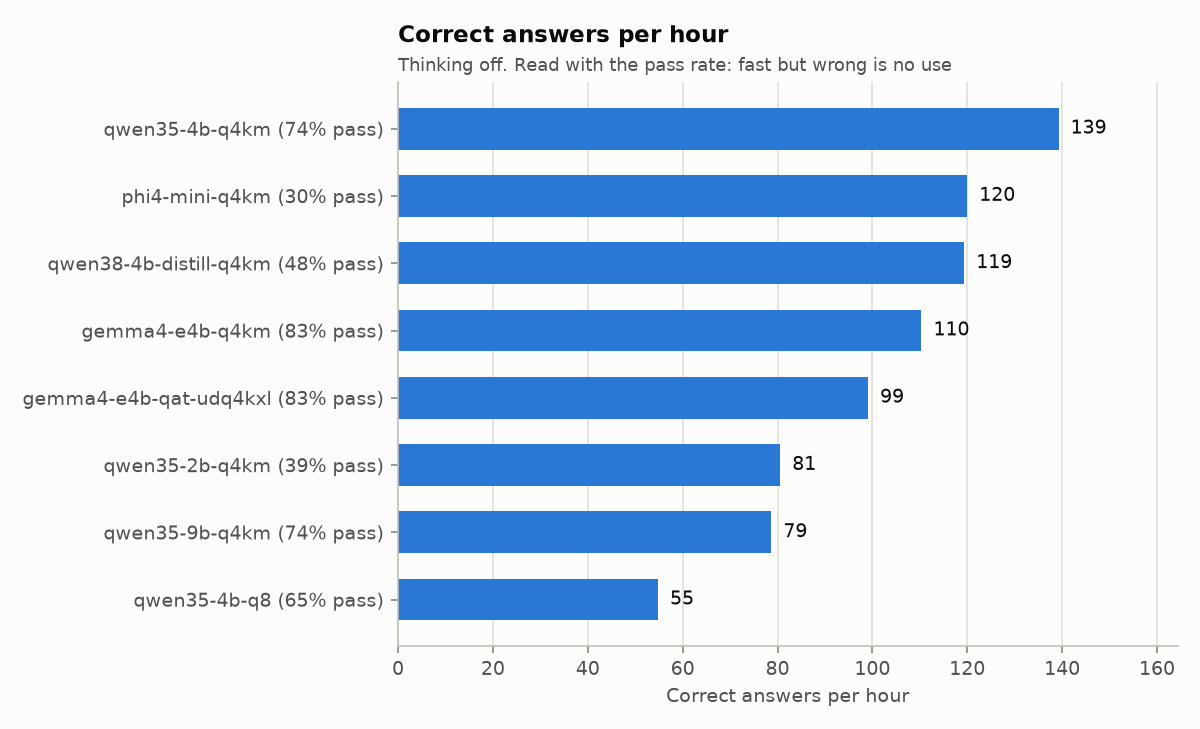
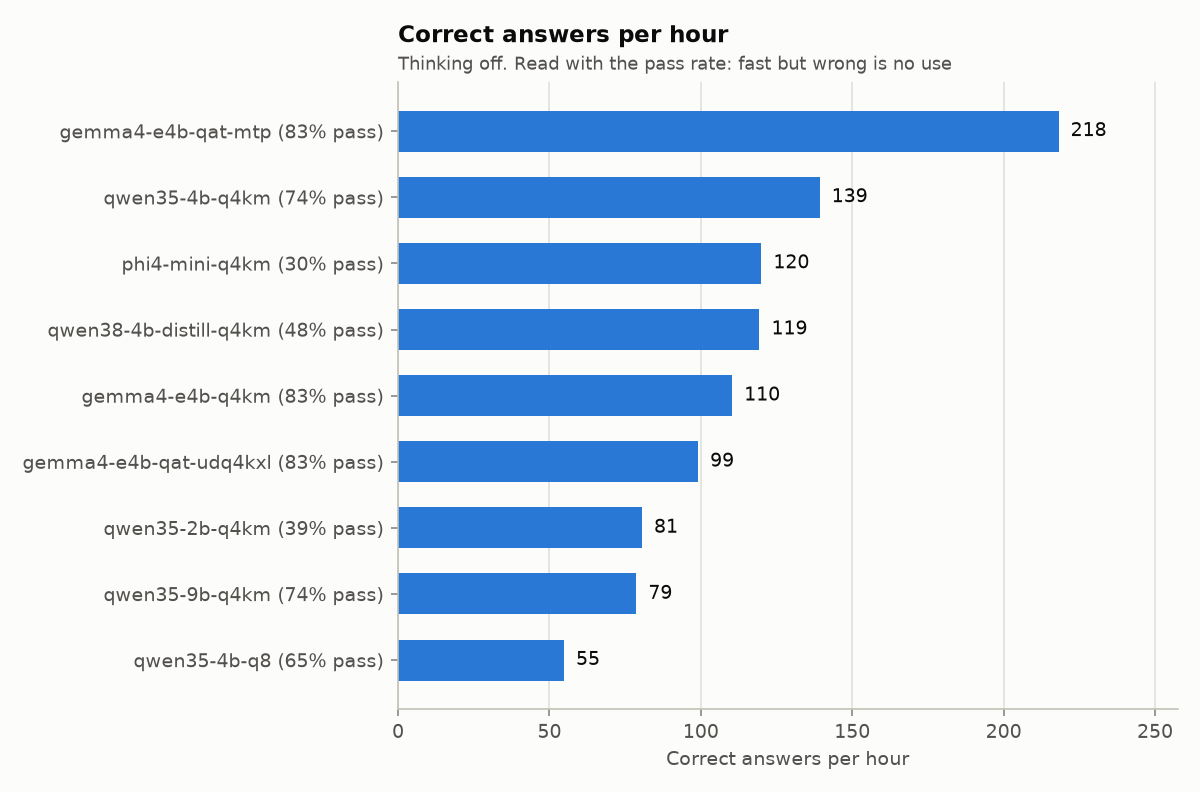
Gemma QAT + MTP (19/23, 218 correct/h); fix log parser for multi-KV and draft models
- configs: optional draft_model / spec_type (resolved like model; hash unchanged when unused)
- server.parse_log: sum KV/weights per model load, compute re-reserves replace; sum loads
  (Gemma 4 has two KV caches: 296 MiB at 16K, not 40 MiB)
- lab file v31: MTP results, corrected Gemma memory, tested daily-use commands (9.4c)

diff --git a/src/lab/config.py b/src/lab/config.py
@@ -123,6 +123,8 @@ class RunConfig:
     max_tokens: int
     request_timeout_s: float
     server_args: tuple[str, ...]
+    draft_model: Path | None = None  # e.g. an MTP helper; resolved like `model`
+    spec_type: str | None = None     # llama-server --spec-type, e.g. draft-mtp
 
     def server_command(self, machine: Machine) -> list[str]:
         cmd = [
@@ -134,6 +136,8 @@ class RunConfig:
         ]
         if self.kv_cache != "f16":
             cmd += ["-ctk", self.kv_cache, "-ctv", self.kv_cache]
+        if self.draft_model:
+            cmd += ["--spec-type", self.spec_type or "draft-mtp", "-md", str(self.draft_model)]
         return cmd + list(self.server_args)
 
     @property
@@ -147,6 +151,8 @@ class RunConfig:
             "thinking": self.thinking, "sampling": self.sampling, "max_tokens": self.max_tokens,
             "server_args": list(self.server_args),
         }
+        if self.draft_model:  # only added when used, so existing hashes stay the same
+            key["draft_model"] = [self.draft_model.name, self.draft_model.stat().st_size, self.spec_type or "draft-mtp"]
         return hashlib.sha256(json.dumps(key, sort_keys=True).encode()).hexdigest()[:12]
 
 
@@ -186,7 +192,8 @@ def resolve_sampling(spec: object, where: str) -> tuple[dict, str | None]:
 def load_run_config(path: Path, machine: Machine) -> RunConfig:
     data = read_yaml(path)
     check_keys(str(path), data, {"name", "model", "backend", "ctx", "thinking", "sampling"},
-               {"kv_cache", "repeats", "max_tokens", "request_timeout_s", "server_args", "notes"})
+               {"kv_cache", "repeats", "max_tokens", "request_timeout_s", "server_args", "notes",
+                "draft_model", "spec_type"})
     if data["backend"] not in machine.backends:
         raise ConfigError(f"{path}: backend {data['backend']!r} is not in machine "
                           f"{machine.name!r} (has {sorted(machine.backends)})")
@@ -209,4 +216,6 @@ def load_run_config(path: Path, machine: Machine) -> RunConfig:
         max_tokens=int(data.get("max_tokens", 4096)),
         request_timeout_s=float(data.get("request_timeout_s", 1800)),
         server_args=tuple(str(a) for a in data.get("server_args") or []),
+        draft_model=resolve_model(str(data["draft_model"]), machine) if data.get("draft_model") else None,
+        spec_type=data.get("spec_type"),
     )

diff --git a/src/lab/server.py b/src/lab/server.py
@@ -27,10 +27,24 @@ def port_in_use(host: str, port: int) -> bool:
 
 
 def parse_log(text: str) -> dict:
-    """Pull build number, bits per weight and buffer sizes (MiB per device) from the log."""
+    """Pull build number, bits per weight and buffer sizes (MiB per device) from the log.
+
+    The log can hold several model loads (e.g. main model + MTP draft model), and one model
+    can have several KV caches (Gemma 4: full-attention + sliding-window). So, per model load:
+    model/KV/RS lines add up, while a repeated compute/output line (a re-reserve) replaces the
+    earlier one. The loads are then added together.
+    """
     buffers: dict[str, dict[str, float]] = {}
-    for device, kind, mib in BUFFER_RE.findall(text):
-        buffers.setdefault(kind.lower(), {})[device] = float(mib)
+    for load in re.split(r"(?=llama_model_loader: loaded meta data)", text):
+        per_load: dict[str, dict[str, float]] = {}
+        for device, kind, mib in BUFFER_RE.findall(load):
+            cell = per_load.setdefault(kind.lower(), {})
+            additive = kind.lower() in ("model", "kv", "rs")
+            cell[device] = (cell.get(device, 0.0) if additive else 0.0) + float(mib)
+        for kind, devices in per_load.items():
+            for device, mib in devices.items():
+                total = buffers.setdefault(kind, {})
+                total[device] = round(total.get(device, 0.0) + mib, 2)
     info: dict = {"buffers_mib": buffers}
     if m := BUILD_RE.search(text):
         info["build"], info["commit"] = int(m[1]), m[2]

diff --git a/LOCAL_LLM_LAB.md b/LOCAL_LLM_LAB.md
@@ -1,6 +1,6 @@
 # Local LLM Lab: Master File
 
-> **Version:** 30 · **Last updated:** 2026-09-25 · **Owner:** Pratham
+> **Version:** 31 · **Last updated:** 2026-09-25 · **Owner:** Pratham
 > **Current machine:** Laptop (ASUS Zenbook 14) · **Current phase:** 4 done (harness complete); 5 next (3 repeats per task)
 
 This one file holds everything: status, plan, commands, hardware facts, model choices, research notes, and the spec for the test harness. It is written so that a human **or** Claude Code can pick it up and continue with no other context.
@@ -950,19 +950,21 @@ Observations:
 
 | Model | Passed | Correct/hour | Median s/task | Decode tok/s | Memory GiB | KV at 16K |
 |---|---|---|---|---|---|---|
-| **Gemma 4 E4B Q4_K_M** | **19/23 (83%)** | 110 | 12.1 | 13.9 | 5.69 (2.2 GB of it in CPU RAM) | **40 MiB** |
+| **Gemma 4 E4B Q4_K_M** | **19/23 (83%)** | 110 | 12.1 | 13.9 | ~~5.69~~ **5.94** (2.2 GB of it in CPU RAM) | ~~40 MiB~~ **296 MiB** |
 | Qwen3.5-4B Q4_K_M | 17/23 (74%) | **139** | 12.6 | 14.2 | 3.69 | 512 MiB |
 | Qwen3.5-9B Q4_K_M | 17/23 (74%) | 79 | 18.9 | 9.1 | 5.97 | 512 MiB |
 | Qwen3.5-2B Q4_K_M | 9/23 (39%) | 81 | 7.1 | 26.8 | 1.86 | 192 MiB |
 | Phi-4-mini Q4_K_M (greedy) | 7/23 (30%) | 120 | 8.7 | 17.6 | 4.88 | **2,048 MiB** |
 | Qwen3.5-4B Q8_0 | 15/23 (65%) | 55 | 17.0 | 11.4 | 5.45 | 512 MiB |
-| **Gemma 4 E4B QAT UD-Q4_K_XL** (2026-09-25) | **19/23 (83%)** | 99 | 16.0 | 12.3 | **4.48** | 40 MiB |
+| **Gemma 4 E4B QAT UD-Q4_K_XL** (2026-09-25) | **19/23 (83%)** | 99 | 16.0 | 12.3 | ~~4.48~~ **4.73** | ~~40 MiB~~ 296 MiB |
+| **Gemma 4 E4B QAT + MTP** (2026-09-25) | **19/23 (83%)** | **218** | **5.9** | **25.7** | 4.87 | 296 MiB |
 | "Qwen3.8-4B-Distill" Q4_K_M (empero-ai, 2026-09-25) | 11/23 (48%) | 119 | 14.0 | 15.3 | 3.66 | 512 MiB |
 
-- KV per token confirmed for three designs: Qwen3.5 hybrid 32 KB, Phi-4-mini 128 KB (as predicted in section 4), Gemma 4 E4B ~2.5 KB (likely sliding-window attention; not yet confirmed from its log).
+- KV per token confirmed for three designs: Qwen3.5 hybrid 32 KB, Phi-4-mini 128 KB (as predicted in section 4), ~~Gemma 4 E4B ~2.5 KB (likely sliding-window attention; not yet confirmed from its log).~~ **Corrected (v31): Gemma 4 E4B has two KV caches, 256 MiB (full attention) + 40 MiB (sliding window) = 296 MiB at 16K (~18.5 KB/token).** The earlier "40 MiB" was a harness bug: the log parser kept only the last KV line. Fixed in `server.parse_log` (it also mis-read logs with a second model loaded, e.g. an MTP draft). Stored rows before the fix under-report Gemma memory by 0.25 GiB; the table above shows corrected values from the server logs.
 - Phi-4-mini answers are coherent (not the Vulkan garbage bug); its failures are real logic errors. Its 120 correct/hour comes from speed, not accuracy: **judge pass rate first, then correct/hour.**
 - The 9B scored the same as the 4B at 1.5× the time: no gain on these tasks.
-- **Gemma QAT vs Gemma Q4_K_M: a tie on quality** (19/23 each; QAT passed `js-deep-merge`, failed `sql-latest-status`). Clean `lab bench` (nothing else running, 7.8 GB free): decode **12.2 vs 13.2 tok/s (−7%)**, prefill **405 vs 349 tok/s (+16%)**, memory **4.48 vs 5.69 GiB (−1.2 GB)**. The slower decode is real, not memory pressure; cause not confirmed (quant mix).
+- **MTP (multi-token prediction) on Gemma QAT: 2x faster, same quality.** 60 MB helper file (`mtp-gemma-4-E4B-it-Q4_0.gguf`), `--spec-type draft-mtp -md <helper>`. Harness: 19/23 (same), decode 25.7 tok/s (vs 12.3), median 5.9 s per task (vs 15-16 s), **218 correct answers per hour** (best of all configs; next: Qwen 4B 139). Everyday test with server-default sampling (min_p 0.05): 31-32 tok/s, drafts accepted ~77%. Costs +0.14 GiB. The draft model is verified by the main model, so answers keep the main model's quality.
+- **Gemma QAT vs Gemma Q4_K_M: a tie on quality** (19/23 each; QAT passed `js-deep-merge`, failed `sql-latest-status`). Clean `lab bench` (nothing else running, 7.8 GB free): decode **12.2 vs 13.2 tok/s (−7%)**, prefill **405 vs 349 tok/s (+16%)**, memory ~~4.48 vs 5.69~~ **4.73 vs 5.94 GiB (−1.2 GB)**. The slower decode is real, not memory pressure; cause not confirmed (quant mix).
 - **"Qwen3.8-4B-Distill" is weaker than the original Qwen3.5-4B** (11 vs 17/23). Setup checked: 0 thinking tokens, no leaked think tags, all `stop`; failures are real code/SQL errors. Confirms the caution about community distills with borrowed names.
 - **Q8_0 scored lower than Q4_K_M (15 vs 17)**, which 8-bit should not do: it failed 3 tasks Q4 passed and passed 1 Q4 failed (all 4 failures checked: real errors, incl. `js-deep-merge` looping until the 4,096-token limit, 6 min). With 1 repeat, **±2-3 tasks is noise**; this is also why Gemma's 2-task lead is not yet proof. Q8 is also slower (11.4 vs 14.2 tok/s, 5.45 vs 3.69 GiB).
 
@@ -973,6 +975,24 @@ Observations:
 - **Not recommended:** Phi-4-mini, Qwen3.5-2B, Qwen3.5-9B.
 
 Q8_0 finished 2026-09-25 (resumed after the stop; 23 remaining tasks).
+
+### 9.4c Daily use (tested 2026-09-25, build 11157)
+
+**Engine:** plain `llama-server` from `D:\Code\Inference\llama-vulkan` (no fork needed: the PrismML fork is only for Bonsai 2; Intel's OpenVINO backend fails on hybrid models). One server = a local OpenAI-compatible API used three ways: the built-in chat page (http://127.0.0.1:8080), an editor extension that accepts an OpenAI-compatible base URL (`http://127.0.0.1:8080/v1`), and your own apps (e.g. the `openai` SDK with `base_url`). LM Studio runs the same engine and is fine for casual chat, but its bundled engine lags behind llama.cpp releases (MTP support in LM Studio not checked).
+
+**Coding / default (Gemma QAT + MTP):**
+```powershell
+D:\Code\Inference\llama-vulkan\llama-server.exe -m D:\Code\Inference\models\gemma-4-E4B-it-qat-UD-Q4_K_XL.gguf --spec-type draft-mtp -md D:\Code\Inference\models\MTP\mtp-gemma-4-E4B-it-Q4_0.gguf -ngl 99 -t 5 -c 16384 -np 1 -rea off --host 127.0.0.1 --port 8080
+```
+Verified: loads in ~8 s; 31-32 tok/s; `-rea off` = no thinking; sampling comes from the GGUF (temp 1.0, top_p 0.95, top_k 64).
+
+**Quick tasks / low memory (Qwen3.5-4B):** the GGUF has no sampling defaults, so pass the model card's values:
+```powershell
+D:\Code\Inference\llama-vulkan\llama-server.exe -m C:\Users\prath\.lmstudio\models\unsloth\Qwen3.5-4B-GGUF\Qwen3.5-4B-Q4_K_M.gguf -ngl 99 -t 5 -c 16384 -np 1 -rea off --temp 0.7 --top-p 0.8 --top-k 20 --min-p 0 --presence-penalty 1.5 --host 127.0.0.1 --port 8080
+```
+Verified: `/props` shows these values; `-rea off` answers "391" in 4 tokens with no thinking. For a hard bug retry, start it with `-rea on` and the thinking preset (`--temp 1.0 --top-p 0.95 --top-k 20 --presence-penalty 1.5`).
+
+**Rules from the measurements:** always `-t 5` on Vulkan (default 14 threads made prefill 4x slower, 9.3); keep prompts under ~16K tokens (16K = 3 min before the first word; 32K crashed the iGPU, 9.6); leave the prompt cache on for daily use (the harness turns it off only for fair benchmarks); keep `--host 127.0.0.1` (the server has no API key). **Avoid agent tools on this laptop** (Claude Code / Cline / LM Studio Bionic pointed at a local model): their prompts are many thousands of tokens (Bionic: 6.8K tokens, 3 min for "hi"), so every step waits minutes. Use them on the PC.
 
 ### 9.5 Phase 5: quality (from `results/report.md`)
 | Config | Pass rate | Median time/task | Correct/hour | Notes |
@@ -1021,7 +1041,7 @@ Swap point (9B Q4_K_M): -c = ___ · Needle 4K/16K/32K: **found / found / GPU cra
 
 ### 9.8 Laptop verdict
 **Provisional (2026-09-25, 1 repeat per task; Phase 5 must confirm):**
-- Daily model: **Gemma 4 E4B, thinking off** (why: most correct, 19/23; tiny KV cache, 40 MiB at 16K). **QAT UD-Q4_K_XL** (4.22 GB file, 4.48 GiB in use) when memory is tight or prompts are long (prefill +16%); **Q4_K_M** (5.34 GB, 5.69 GiB) when decode speed matters (+7%). Same accuracy.
+- Daily model: **Gemma 4 E4B QAT UD-Q4_K_XL + MTP, thinking off** (why: most correct, 19/23; with MTP the fastest too: 25-32 tok/s, 218 correct answers per hour; 4.87 GiB). ~~QAT when memory is tight … Q4_K_M when decode speed matters~~ (superseded: MTP removed QAT's decode gap; Q4_K_M deleted).
 - Quick-task / low-memory model: **Qwen3.5-4B Q4_K_M, thinking off** (17/23, most correct answers per hour, 3.7 GiB)
 - Thinking: **off by default; on only to retry a failed bug fix** (Qwen 4B fixed 2 of 2 failed bug tasks, ~6-10 min each)
 - Breaking points: speed **Bonsai 27B / 9B too slow for the gain** · quality **2B and Phi-4-mini too weak (≤ 39%)** · memory/context **~16K-token prompts on Vulkan (32K crashed)**
@@ -1259,3 +1279,4 @@ Sources: Hugging Face API; [grigio.org Panther Lake backend benchmark](https://g
 | 2026-09-25 | Claude Code | v28: filtered Pratham's Hugging Face list by laptop speed (12.6): test Nemotron-3-Nano-4B next; Ornith smallest is 9B (runs ~9 tok/s, slower); "Qwen3.8-4B-Distill" is a community model (no official Qwen3.8 4B); Ornith-1.5-35B-A3B noted as PC candidate |
 | 2026-09-25 | Claude Code | v29: tested 2 downloads: Gemma 4 E4B QAT UD-Q4_K_XL 19/23 (tie with Q4_K_M; −1.2 GB memory, prefill +16%, decode −7% by clean `lab bench`); "Qwen3.8-4B-Distill" 11/23 (worse than Qwen3.5-4B); report quant label handles `UD-Q4_K_XL` |
 | 2026-09-25 | Claude Code | v30: deleted all models except Qwen3.5-4B Q4_K_M and Gemma 4 E4B QAT (+ MTP helper), ~40 GB freed; configs of deleted models moved to `configs/archive/` so `lab run` still loads |
+| 2026-09-25 | Claude Code | v31: MTP tested: Gemma QAT + MTP 19/23, 25.7 tok/s, 218 correct/h (best); configs support `draft_model` / `spec_type`; **fixed log parser** (Gemma has 2 KV caches: 296 MiB not 40 MiB; second model load overwrote buffers); corrected Gemma memory (5.94 / 4.73 GiB); daily-use commands verified (9.4c) |

diff --git a/results/report.md b/results/report.md
@@ -1,6 +1,6 @@
 # Harness report
 
-Generated 2026-09-25 14:42 from `runs.jsonl` (200 current runs; 24 tasks in `tasks.yaml`). Sorted by correct answers per hour.
+Generated 2026-09-25 14:55 from `runs.jsonl` (226 current runs; 24 tasks in `tasks.yaml`). Sorted by correct answers per hour.
 
 - **Correct answers per hour** = passed auto-graded runs ÷ hours of wall time spent on them.
 - Thinking-on configs run only the tasks marked `thinking: on/both`, so compare them with care.
@@ -10,11 +10,12 @@ Generated 2026-09-25 14:42 from `runs.jsonl` (200 current runs; 24 tasks in `tas
 
 | Config | Quant | File GB | Thinking | Runs | Passed | Pass rate | Correct/hour | Median s/task | Median first answer s | Decode tok/s | Mean tokens/run | Memory GiB | Manual | Cut off |
 |---|---|---|---|---|---|---|---|---|---|---|---|---|---|---|
+| `gemma4-e4b-qat-mtp-vulkan-nothink` | UD-Q4_K_XL | 4.22 | off | 25 | 19/23 | **83%** | **218** | 5.9 | 1.0 | 25.7 | 314 | 4.87 | 2 | 0 |
 | `qwen35-4b-q4km-vulkan-nothink` | Q4_K_M | 2.74 | off | 24 | 17/23 | **74%** | **139** | 12.6 | 1.5 | 14.2 | 243 | 3.69 | 1 | 0 |
 | `phi4-mini-q4km-vulkan-nothink` | Q4_K_M | 2.49 | off | 24 | 7/23 | **30%** | **120** | 8.7 | 0.6 | 17.6 | 148 | 4.88 | 1 | 0 |
 | `qwen38-4b-distill-q4km-vulkan-nothink` | Q4_K_M | 2.78 | off | 24 | 11/23 | **48%** | **119** | 14.0 | 1.5 | 15.3 | 193 | 3.66 | 1 | 0 |
 | `gemma4-e4b-q4km-vulkan-nothink` | Q4_K_M | 5.34 | off | 24 | 19/23 | **83%** | **110** | 12.1 | 1.1 | 13.9 | 343 | 5.69 | 1 | 0 |
-| `gemma4-e4b-qat-udq4kxl-vulkan-nothink` | UD-Q4_K_XL | 4.22 | off | 24 | 19/23 | **83%** | **99** | 16.0 | 0.9 | 12.3 | 344 | 4.48 | 1 | 0 |
+| `gemma4-e4b-qat-udq4kxl-vulkan-nothink` | UD-Q4_K_XL | 4.22 | off | 25 | 19/23 | **83%** | **99** | 15.3 | 0.9 | 12.3 | 334 | 4.73 | 2 | 0 |
 | `qwen35-2b-q4km-vulkan-nothink` | Q4_K_M | 1.28 | off | 24 | 9/23 | **39%** | **81** | 7.1 | 0.6 | 26.8 | 434 | 1.86 | 1 | 1 |
 | `qwen35-9b-q4km-vulkan-nothink` | Q4_K_M | 5.68 | off | 24 | 17/23 | **74%** | **79** | 18.9 | 2.0 | 9.1 | 268 | 5.97 | 1 | 0 |
 | `qwen35-4b-q8-vulkan-nothink` | Q8_0 | 4.48 | off | 24 | 15/23 | **65%** | **55** | 17.0 | 1.4 | 11.4 | 448 | 5.45 | 1 | 1 |
@@ -24,6 +25,7 @@ Generated 2026-09-25 14:42 from `runs.jsonl` (200 current runs; 24 tasks in `tas
 
 | Config | small function | bug finding | sql regex | explain code | maths logic | instruction following | summarise |
 |---|---|---|---|---|---|---|---|
+| `gemma4-e4b-qat-mtp` | 3/6 | 4/4 | 4/4 | 0/1 | 3/3 | 3/3 | 2/2 |
 | `qwen35-4b-q4km` | 4/6 | 2/4 | 4/4 | 0/1 | 3/3 | 2/3 | 2/2 |
 | `phi4-mini-q4km` | 1/6 | 2/4 | 1/4 | 0/1 | 2/3 | 1/3 | 0/2 |
 | `qwen38-4b-distill-q4km` | 1/6 | 1/4 | 2/4 | 0/1 | 3/3 | 2/3 | 2/2 |
@@ -38,32 +40,32 @@ Generated 2026-09-25 14:42 from `runs.jsonl` (200 current runs; 24 tasks in `tas
 
 ✓ = passed every repeat, ✗ = failed every repeat, `p/n` = mixed, M = needs manual grading, blank = not run.
 
-| Task | Category | `qwen35-4b-q4km` | `phi4-mini-q4km` | `qwen38-4b-distill-q4km` | `gemma4-e4b-q4km` | `gemma4-e4b-qat-udq4kxl` | `qwen35-2b-q4km` | `qwen35-9b-q4km` | `qwen35-4b-q8` | `qwen35-4b-q4km-think` |
-|---|---|---|---|---|---|---|---|---|---|---|
-| `py-parse-date` | small function | ✓ | ✓ | ✗ | ✓ | ✓ | ✗ | ✓ | ✗ |  |
-| `py-normalise-order` | small function | ✓ | ✗ | ✗ | ✗ | ✗ | ✗ | ✓ | ✗ |  |
-| `py-merge-slots` | small function | ✓ | ✗ | ✓ | ✓ | ✓ | ✓ | ✓ | ✓ |  |
-| `js-parse-query` | small function | ✓ | ✗ | ✗ | ✓ | ✓ | ✗ | ✗ | ✓ |  |
-| `js-deep-merge` | small function | ✗ | ✗ | ✗ | ✗ | ✓ | ✗ | ✗ | ✗ |  |
-| `cpp-parse-duration` | small function | ✗ | ✗ | ✗ | ✗ | ✗ | ✗ | ✗ | ✗ |  |
-| `bug-py-paginate` | bug finding | ✗ | ✗ | ✗ | ✓ | ✓ | ✗ | ✓ | ✗ | ✓ |
-| `bug-py-split-pence` | bug finding | ✓ | ✓ | ✓ | ✓ | ✓ | ✓ | ✓ | ✓ | ✓ |
-| `bug-js-top-scores` | bug finding | ✓ | ✓ | ✗ | ✓ | ✓ | ✓ | ✓ | ✓ | ✓ |
-| `bug-sql-left-join` | bug finding | ✗ | ✗ | ✗ | ✓ | ✓ | ✗ | ✓ | ✗ | ✓ |
-| `sql-top-customers` | sql regex | ✓ | ✓ | ✓ | ✓ | ✓ | ✓ | ✓ | ✓ |  |
-| `sql-monthly-running-total` | sql regex | ✓ | ✗ | ✗ | ✓ | ✓ | ✗ | ✓ | ✓ |  |
-| `sql-latest-status` | sql regex | ✓ | ✗ | ✗ | ✓ | ✗ | ✗ | ✗ | ✗ |  |
-| `py-regex-log-line` | sql regex | ✓ | ✗ | ✓ | ✓ | ✓ | ✗ | ✓ | ✓ |  |
-| `explain-js-event-loop` | explain code | ✗ | ✗ | ✗ | ✗ | ✗ | ✗ | ✗ | ✗ | ✗ |
-| `explain-py-rate-cache` | explain code | M | M | M | M | M | M | M | M |  |
-| `math-batch-job` | maths logic | ✓ | ✓ | ✓ | ✓ | ✓ | ✓ | ✓ | ✓ | ✓ |
-| `math-sla-downtime` | maths logic | ✓ | ✓ | ✓ | ✓ | ✓ | ✓ | ✓ | ✓ | ✓ |
-| `math-pin-count` | maths logic | ✓ | ✗ | ✓ | ✓ | ✓ | ✓ | ✓ | ✓ | ✓ |
-| `if-three-bullets` | instruction following | ✗ | ✗ | ✗ | ✓ | ✓ | ✗ | ✗ | ✓ |  |
-| `if-json-extract` | instruction following | ✓ | ✗ | ✓ | ✓ | ✓ | ✗ | ✓ | ✓ |  |
-| `if-one-sentence` | instruction following | ✓ | ✓ | ✓ | ✓ | ✓ | ✓ | ✓ | ✓ |  |
-| `sum-incident` | summarise | ✓ | ✗ | ✓ | ✓ | ✓ | ✓ | ✓ | ✓ |  |
-| `sum-release-notes` | summarise | ✓ | ✗ | ✓ | ✓ | ✓ | ✗ | ✓ | ✓ |  |
+| Task | Category | `gemma4-e4b-qat-mtp` | `qwen35-4b-q4km` | `phi4-mini-q4km` | `qwen38-4b-distill-q4km` | `gemma4-e4b-q4km` | `gemma4-e4b-qat-udq4kxl` | `qwen35-2b-q4km` | `qwen35-9b-q4km` | `qwen35-4b-q8` | `qwen35-4b-q4km-think` |
+|---|---|---|---|---|---|---|---|---|---|---|---|
+| `py-parse-date` | small function | ✓ | ✓ | ✓ | ✗ | ✓ | ✓ | ✗ | ✓ | ✗ |  |
+| `py-normalise-order` | small function | ✗ | ✓ | ✗ | ✗ | ✗ | ✗ | ✗ | ✓ | ✗ |  |
+| `py-merge-slots` | small function | ✓ | ✓ | ✗ | ✓ | ✓ | ✓ | ✓ | ✓ | ✓ |  |
+| `js-parse-query` | small function | ✗ | ✓ | ✗ | ✗ | ✓ | ✓ | ✗ | ✗ | ✓ |  |
+| `js-deep-merge` | small function | ✓ | ✗ | ✗ | ✗ | ✗ | ✓ | ✗ | ✗ | ✗ |  |
+| `cpp-parse-duration` | small function | ✗ | ✗ | ✗ | ✗ | ✗ | ✗ | ✗ | ✗ | ✗ |  |
+| `bug-py-paginate` | bug finding | ✓ | ✗ | ✗ | ✗ | ✓ | ✓ | ✗ | ✓ | ✗ | ✓ |
+| `bug-py-split-pence` | bug finding | ✓ | ✓ | ✓ | ✓ | ✓ | ✓ | ✓ | ✓ | ✓ | ✓ |
+| `bug-js-top-scores` | bug finding | ✓ | ✓ | ✓ | ✗ | ✓ | ✓ | ✓ | ✓ | ✓ | ✓ |
+| `bug-sql-left-join` | bug finding | ✓ | ✗ | ✗ | ✗ | ✓ | ✓ | ✗ | ✓ | ✗ | ✓ |
+| `sql-top-customers` | sql regex | ✓ | ✓ | ✓ | ✓ | ✓ | ✓ | ✓ | ✓ | ✓ |  |
+| `sql-monthly-running-total` | sql regex | ✓ | ✓ | ✗ | ✗ | ✓ | ✓ | ✗ | ✓ | ✓ |  |
+| `sql-latest-status` | sql regex | ✓ | ✓ | ✗ | ✗ | ✓ | ✗ | ✗ | ✗ | ✗ |  |
+| `py-regex-log-line` | sql regex | ✓ | ✓ | ✗ | ✓ | ✓ | ✓ | ✗ | ✓ | ✓ |  |
+| `explain-js-event-loop` | explain code | ✗ | ✗ | ✗ | ✗ | ✗ | ✗ | ✗ | ✗ | ✗ | ✗ |
+| `explain-py-rate-cache` | explain code | M | M | M | M | M | M | M | M | M |  |
+| `math-batch-job` | maths logic | ✓ | ✓ | ✓ | ✓ | ✓ | ✓ | ✓ | ✓ | ✓ | ✓ |
+| `math-sla-downtime` | maths logic | ✓ | ✓ | ✓ | ✓ | ✓ | ✓ | ✓ | ✓ | ✓ | ✓ |
+| `math-pin-count` | maths logic | ✓ | ✓ | ✗ | ✓ | ✓ | ✓ | ✓ | ✓ | ✓ | ✓ |
+| `if-three-bullets` | instruction following | ✓ | ✗ | ✗ | ✗ | ✓ | ✓ | ✗ | ✗ | ✓ |  |
+| `if-json-extract` | instruction following | ✓ | ✓ | ✗ | ✓ | ✓ | ✓ | ✗ | ✓ | ✓ |  |
+| `if-one-sentence` | instruction following | ✓ | ✓ | ✓ | ✓ | ✓ | ✓ | ✓ | ✓ | ✓ |  |
+| `sum-incident` | summarise | ✓ | ✓ | ✗ | ✓ | ✓ | ✓ | ✓ | ✓ | ✓ |  |
+| `sum-release-notes` | summarise | ✓ | ✓ | ✗ | ✓ | ✓ | ✓ | ✗ | ✓ | ✓ |  |
 
 ## Charts
 
